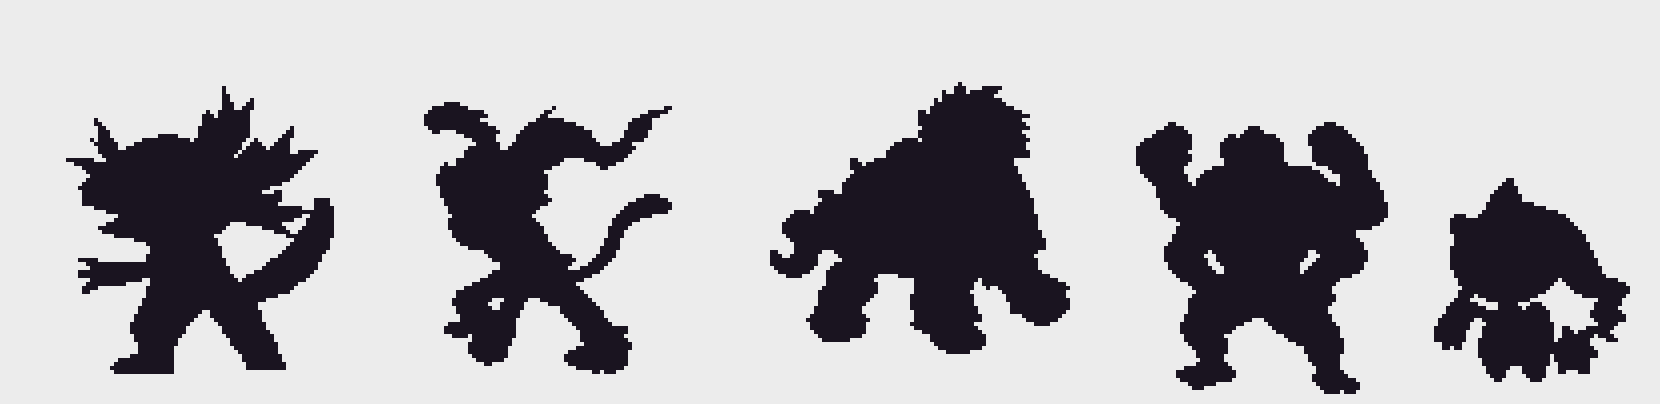
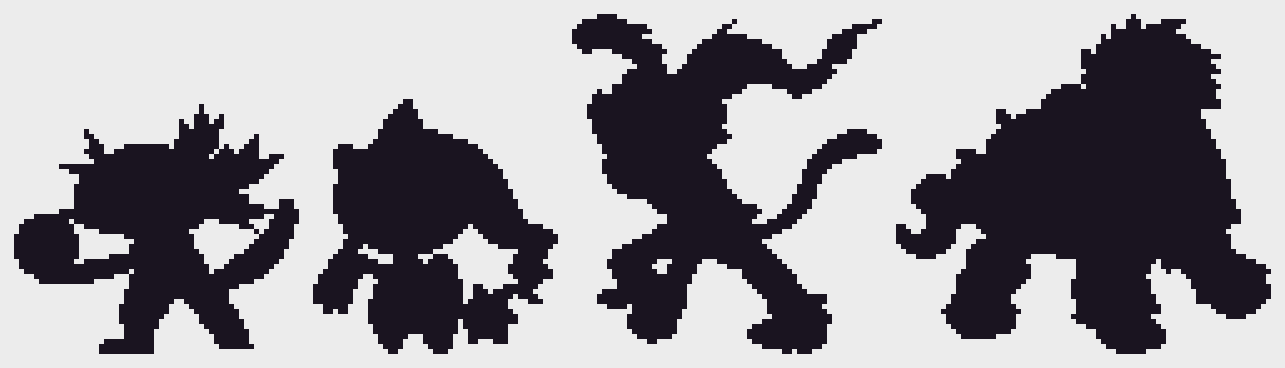
Kilnlotl silhouette: blowing a glass bubble held in the far hand, starter size
Claude-Session: https://claude.ai/code/session_015N853SUWqrmyHcbNWNuNxK

diff --git a/art/creatures/kilnlotl.px.js b/art/creatures/kilnlotl.px.js
@@ -1,17 +1,18 @@
 // Kilnlotl — Fire starter. 96x96 BW battle sprite, 3/4 front facing screen-left.
 // A glassblower's axolotl from Emberwick: three flame gills per side, a fired-glass belly
 // window over its ember core, a finned paddle tail dripping molten glass. Battle pose:
-// lunging forward, mouth open, far claw reaching, tail raised as a counterweight.
-// (Glassblow, the bubble, is its attack animation.)
+// lunging forward, blowing a molten glass bubble from its pursed lips and cradling it in
+// its far hand, tail raised as a counterweight.
 //
 // Stage 1: silhouette only (art/BW_STYLE.md, Process). The body is ONE traced contour so
 // every part is anatomically attached; gills overlap deep into the head.
 
 pal({ s: "#1a1420" })
 
-// Design space is drawn large; T scales it to starter size (~67x72 body box), anchored on
-// the feet at the bottom centre of the 96x96 canvas.
-const T = (pts) => pts.map((v, i) => (i % 2 ? Math.round((91 - (91 - v) * 0.82) * 2) / 2 : Math.round((48 + (v - 53) * 0.82) * 2) / 2))
+// Design space is drawn large; T scales it to starter size (~50 px tall, about 2/3 of a
+// final stage like Infernape), anchored on the feet at the bottom centre of the canvas.
+const K = 0.58
+const T = (pts) => pts.map((v, i) => Math.round((i % 2 ? 91 - (91 - v) * K : 48 + (v - 46) * K) * 2) / 2)
 
 const BODY = [
   // head top, left to right
@@ -28,10 +29,11 @@ const BODY = [
   50, 75, 46, 80, 44, 86, 45, 91, 27, 91, 25, 89, 28, 86, 34, 85, 33, 81, 31, 77, 34, 71,
   // belly, chest
   36, 67, 37, 62,
-  // far arm reaching forward from the lower chest: underside, three spread claws, top side
-  33, 63, 27, 64, 22, 65, 17, 67, 17, 65, 20, 62, 15, 62, 16, 60, 20, 59, 16, 56, 18, 55, 23, 57, 30, 57, 36, 56,
-  // neck notch, chin, open mouth (lower jaw, gape, upper lip), snout, forehead
-  37, 52, 32, 50, 26, 49, 20, 47, 28, 43, 17, 39, 16, 34, 20, 28, 26, 24,
+  // far arm reaching forward from the lower chest, hand cupped under the bubble,
+  // fingertips curling up its side
+  33, 63, 24, 66, 14, 68, 6, 67, 1, 63, 0, 58, 3, 59, 5, 63, 10, 64, 16, 62, 23, 58, 30, 57, 36, 56,
+  // neck notch, chin, lips pursed forward to blow, snout, forehead
+  37, 52, 32, 50, 26, 49, 21, 47, 18, 46, 15, 44, 17, 41, 17, 38, 16, 34, 20, 28, 26, 24,
 ]
 
 sprite("kilnlotl_sil", { w: 96, h: 96 },
@@ -39,6 +41,9 @@ sprite("kilnlotl_sil", { w: 96, h: 96 },
   poly(T([26, 30, 18, 18, 22, 22, 20, 12, 27, 20, 30, 26]), "s"),
   poly(T([24, 33, 12, 26, 18, 25, 26, 29]), "s"),
   poly(T(BODY), "s"),
+  // molten glass bubble, still joined to the lips by a short glass neck
+  poly(T([17, 41, 15, 47, 11, 48, 12, 42]), "s"),
+  (c) => { const [cx, cy] = T([7, 53]); c.circ(cx, cy, Math.round(11 * K), "s") },
   // near gills: three flame fronds, bases buried in the back of the head
   poly(T([48, 26, 52, 18, 54, 10, 58, 14, 60, 3, 64, 12, 69, 6, 67, 19, 60, 30, 52, 30]), "s"),
   poly(T([56, 30, 64, 25, 70, 19, 73, 23, 81, 14, 80, 24, 89, 22, 80, 32, 68, 37, 58, 38]), "s"),
